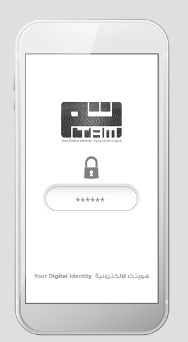
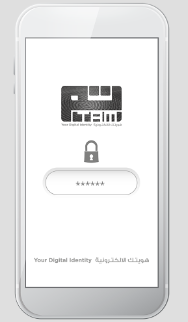
Login Change

diff --git a/src/app/landing/login/login.component.html b/src/app/landing/login/login.component.html
@@ -1,7 +1,7 @@
  <!-- start services -->
  <section class="section p-0" id="services">
     <div class="container">
-        <div class="row justify-content-center pt-5">
+        <div class="login-card row justify-content-center">
             <div class="col-lg-8">
                 <div class="card border shadow px-2 py-2">
                     <div class="card-body">
@@ -15,42 +15,14 @@
                                     <div class="card-body">
                                         <div class="d-flex flex-row">
                                             <div class="card img-box">
-                                                <div class="card-body rounded border">
+                                                <div class="card-body rounded border d-flex align-items-center justify-content-center">
                                                     <img src="/assets/images/card_reader.png"class="img-fluid">
                                                 </div>
                                             </div>
                                             <div class="d-flex flex-column px-4 w-100 text-center">
                                                 <h2 class="card-box-title">Login using ID Card</h2>
                                                 <p class="mt-4">To login with Id Card, you will need you Civil Id card, your pin code and a card reader.</p>
-                                                <!-- <form [formGroup]="loginForm" class=" mt-2 h-100">
-                                                    <div class="d-flex flex-column justify-content-between h-100">
-                                                        <div class="mb-3">
-                                                            <label for="username" class="form-label">Username</label>
-                                                            <input type="text" class="form-control" id="username" placeholder="Enter username" formControlName="email" [ngClass]="{ 'is-invalid': submitted && f['email'].errors }">
-                                                            <div *ngIf="submitted && f['email'].errors" class="invalid-feedback" >
-                                                                <div *ngIf="f['email'].errors['required']">Username is required</div>
-                                                            </div>
-                                                        </div>
-                                                        <div class="mb-3">
-                                                            <label class="form-label" for="password-input">Password</label>
-                                                            <div class="position-relative auth-pass-inputgroup mb-3">
-                                                                <input [type]="fieldTextType ? 'text' : 'password'" class="form-control pe-5" placeholder="Enter password" id="password-input" formControlName="password"
-                                                                [ngClass]="{ 'is-invalid': submitted && f['password'].errors }">
-                                                                <button class="btn btn-link position-absolute end-0 top-0 text-decoration-none text-muted" type="button" id="password-addon"><i class="mdi align-middle" [ngClass]="{'mdi-eye-off-outline': !fieldTextType, 'mdi-eye-outline': fieldTextType
-                                                                }" (click)="toggleFieldTextType()"></i></button>
-                                                                <div *ngIf="submitted && f['password'].errors" class="invalid-feedback">
-                                                                    <span *ngIf="f['password'].errors['required']">Password is required</span>
-                                                                </div>
-                                                            </div>
-                                                        </div>
-                                                    </div>
-                    
-                                                </form> -->
-                                                <hr class="mt-auto">
-                                                <div class="w-100">
-                                                    <button class="btn btn-success w-100" type="submit" (click)="onSubmit()">Login</button>
-                                                </div>
-
+                                                <button class="btn btn-success mx-auto mt-3" style="width: 100px !important;" type="submit" (click)="onSubmit()">Login</button>
                                             </div>
                                         </div>
                                     </div>
@@ -64,9 +36,9 @@
                                 <div class="card tab-card">
                                     <div class="card-body">
                                         <div class="d-flex flex-row">
-                                            <div class="card img-box">
+                                            <div class="card img-box_2">
                                                 <div class="card-body rounded border">
-                                                    <img src="/assets/images/phone_auth.png"class="img-fluid">
+                                                    <img src="/assets/images/phone_auth.png" class="img-fluid">
                                                 </div>
                                             </div>
                                             <div class="d-flex flex-column px-4 w-100 text-center">
@@ -75,34 +47,7 @@
                                                 <div class="input-group mb-3">
                                                     <span id="basic-addon1" class="input-group-text">+968</span><input type="number" placeholder="Mobile Number" aria-label="Mobile Number" aria-describedby="basic-addon1" class="form-control">
                                                 </div>
-                                                <!-- <form [formGroup]="loginForm" class=" mt-2 h-100">
-                                                    <div class="d-flex flex-column justify-content-start h-100">
-                                                        <div class="mb-3">
-                                                            <label for="username" class="form-label">Username</label>
-                                                            <input type="text" class="form-control" id="username" placeholder="Enter username" formControlName="email" [ngClass]="{ 'is-invalid': submitted && f['email'].errors }">
-                                                            <div *ngIf="submitted && f['email'].errors" class="invalid-feedback" >
-                                                                <div *ngIf="f['email'].errors['required']">Username is required</div>
-                                                            </div>
-                                                        </div>
-                                                        <div class="mb-3">
-                                                            <label class="form-label" for="password-input">Password</label>
-                                                            <div class="position-relative auth-pass-inputgroup mb-3">
-                                                                <input [type]="fieldTextType ? 'text' : 'password'" class="form-control pe-5" placeholder="Enter password" id="password-input" formControlName="password"
-                                                                [ngClass]="{ 'is-invalid': submitted && f['password'].errors }">
-                                                                <button class="btn btn-link position-absolute end-0 top-0 text-decoration-none text-muted" type="button" id="password-addon"><i class="mdi align-middle" [ngClass]="{'mdi-eye-off-outline': !fieldTextType, 'mdi-eye-outline': fieldTextType
-                                                                }" (click)="toggleFieldTextType()"></i></button>
-                                                                <div *ngIf="submitted && f['password'].errors" class="invalid-feedback">
-                                                                    <span *ngIf="f['password'].errors['required']">Password is required</span>
-                                                                </div>
-                                                            </div>
-                                                        </div>
-                                                    </div>
-                    
-                                                </form> -->
-                                                <hr class="mt-auto">
-                                                <div class="w-100">
-                                                    <button class="btn btn-success w-100" type="submit" (click)="onSubmit()">Login</button>
-                                                </div>
+                                                <button class="btn btn-success  mx-auto mt-3 w-25" type="submit" (click)="onSubmit()">Login</button>
 
                                             </div>
                                         </div>
@@ -115,115 +60,7 @@
                           <div [ngbNavOutlet]="BorderTop"></div>
                         </div>
                     </div><!-- end card-body -->
-                </div>
-                <!-- <div class="row">
-                    <div class="col-md-6">
-                        <div class="card border h-100">
-                            <div class="card-body">
-                                <span  class="ribbon-three ribbon-three-primary"><span >Id Card</span></span>
-                                <div class="d-flex flex-column p-2 mt-2 h-100">
-                                    <form [formGroup]="loginForm" (ngSubmit)="onSubmit()" class="h-100">
-                                        <div class="d-flex flex-column justify-content-between h-100">
-                                            <div class="p-2 mt-4">
-                                                <p><b>Login using ID Card Requires:</b></p>
-                                                <p>1. Id Card / Resident Card</p>
-                                                <p>2. Pin Code</p>
-                                                <p>3. Card Reader
-                                                </p>
-                                                <div class="mt-2 d-flex flex-row justify-content-center align-items-center">
-                                                    <img src="" class="img-fluid" alt="">
-                                                </div>
-                                            </div>
-                                            <div class="mb-3">
-                                                <label for="username" class="form-label">Username</label>
-                                                <input type="text" class="form-control" id="username" placeholder="Enter username" formControlName="email" [ngClass]="{ 'is-invalid': submitted && f['email'].errors }">
-                                                <div *ngIf="submitted && f['email'].errors" class="invalid-feedback" >
-                                                    <div *ngIf="f['email'].errors['required']">Username is required</div>
-                                                </div>
-                                            </div>
-            
-                                            <div class="mb-3">
-                                                <label class="form-label" for="password-input">Password</label>
-                                                <div class="position-relative auth-pass-inputgroup mb-3">
-                                                    <input [type]="fieldTextType ? 'text' : 'password'" class="form-control pe-5" placeholder="Enter password" id="password-input" formControlName="password"
-                                                    [ngClass]="{ 'is-invalid': submitted && f['password'].errors }">
-                                                    <button class="btn btn-link position-absolute end-0 top-0 text-decoration-none text-muted" type="button" id="password-addon"><i class="mdi align-middle" [ngClass]="{'mdi-eye-off-outline': !fieldTextType, 'mdi-eye-outline': fieldTextType
-                                                    }" (click)="toggleFieldTextType()"></i></button>
-                                                    <div *ngIf="submitted && f['password'].errors" class="invalid-feedback">
-                                                        <span *ngIf="f['password'].errors['required']">Password is required</span>
-                                                    </div>
-                                                </div>
-                                            </div>
-                                            <div class="d-flex justify-content-center">
-                                                <img src="assets/images/card_reader.png" class="img-fluid w-75" >
-                                            </div>
-                                            <div class="mt-auto w-100">
-                                                <button class="btn btn-success w-100" type="submit">Login</button>
-                                            </div>
-
-                                        </div>
-        
-                                    </form>
-                                </div>
-                            </div>
-                        </div>
-                    </div>
-
-                    <div class="col-md-6">
-                        <div class="card border h-100">
-                            <div class="card-body">
-                                <span  class="ribbon-three ribbon-three-primary"><span >Mobile</span></span>
-                                <div class="d-flex flex-column h-100 p-2 mt-2 ">
-                                    <form [formGroup]="loginForm" (ngSubmit)="onSubmit()" class="h-100">
-                                        <div class="d-flex flex-column h-100">
-                                            <div class="d-flex flex-row justify-content-between">
-                                                <div class="d-flex flex-column">
-                                                    <div class="p-2 mt-4">
-                                                        <p><b>Login using Mobile Requires:</b></p>
-                                                        <p class="mt-2">1. Mobile Card</p>
-                                                        <p>2. Pin Code
-                                                        </p>
-                                                        <div class="mt-2 d-flex flex-row justify-content-center align-items-center">
-                                                            <img src="" class="img-fluid" alt="">
-                                                        </div>
-                                                        <div class="input-group"><span id="basic-addon1" class="input-group-text">+968</span><input type="number" placeholder="Mobile Number" aria-label="Mobile Number" aria-describedby="basic-addon1" class="form-control"></div>
-                                                    </div>
-                                                    <div class="mb-3">
-                                                        <label for="username" class="form-label">Username</label>
-                                                        <input type="text" class="form-control" id="username" placeholder="Enter username" formControlName="email" [ngClass]="{ 'is-invalid': submitted && f['email'].errors }">
-                                                        <div *ngIf="submitted && f['email'].errors" class="invalid-feedback" >
-                                                          <div *ngIf="f['email'].errors['required']">Username is required</div>
-                                                        </div>
-                                                    </div>
-                                                    <div class="mb-3">
-                                                        <label class="form-label" for="password-input">Password</label>
-                                                        <div class="position-relative auth-pass-inputgroup mb-3">
-                                                            <input [type]="fieldTextType ? 'text' : 'password'" class="form-control pe-5" placeholder="Enter password" id="password-input" formControlName="password"
-                                                            [ngClass]="{ 'is-invalid': submitted && f['password'].errors }">
-                                                            <button class="btn btn-link position-absolute end-0 top-0 text-decoration-none text-muted" type="button" id="password-addon"><i class="mdi align-middle" [ngClass]="{'mdi-eye-off-outline': !fieldTextType, 'mdi-eye-outline': fieldTextType
-                                                            }" (click)="toggleFieldTextType()"></i></button>
-                                                            <div *ngIf="submitted && f['password'].errors" class="invalid-feedback">
-                                                              <span *ngIf="f['password'].errors['required']">Password is required</span>
-                                                            </div>
-                                                        </div>
-                                                    </div>
-                                                </div>
-                                                <div class="d-flex justify-content-center p-2">
-                                                    <img src="assets/images/phone_auth.png" class="img-fluid w-100" >
-                                                </div>
-                                            </div>
-                                            
-                                            <div class="mt-auto w-100">
-                                                <button class="btn btn-success w-100" type="submit">Login</button>
-                                            </div>
-                                        </div>
-      
-                                    </form>
-                                </div>
-                            </div>
-                        </div>
-                    </div>
-                </div> -->
+                </div>                
             </div>
             <!-- end col -->
         </div>
@@ -232,6 +69,6 @@
         
         <!-- end row -->
     </div>
-    <!-- end container -->
+    <!-- end container --> 
 </section>
 <!-- end services -->

diff --git a/src/app/landing/login/login.component.scss b/src/app/landing/login/login.component.scss
@@ -1,6 +1,10 @@
 .section {
     background-color: rgb(237, 237, 237) !important;
 }
+
+.login-card {
+    padding-top: 65px !important;
+}
 p {
     margin-bottom: 0px !important;
 }
@@ -16,6 +20,11 @@ p {
 
 .img-box {
     width: 280px !important;
+    height: auto;
+    background-color: #dfdfdf !important;   
+}
+.img-box_2 {
+    width: 230px !important;
     height: auto;
     background-color: #dfdfdf !important;   
 }
